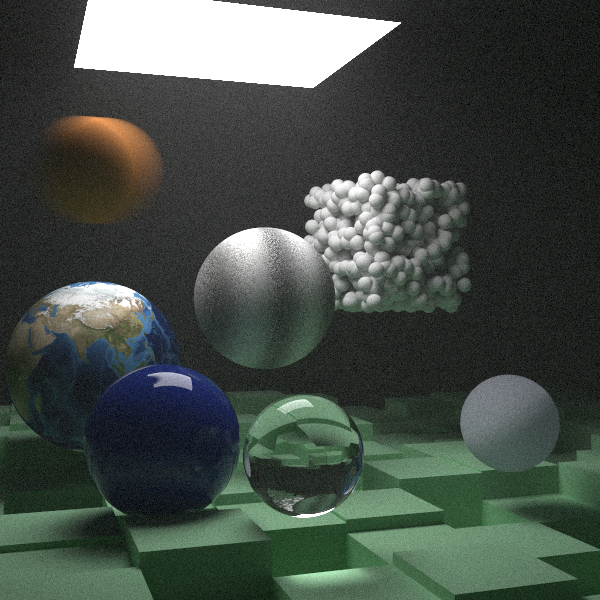
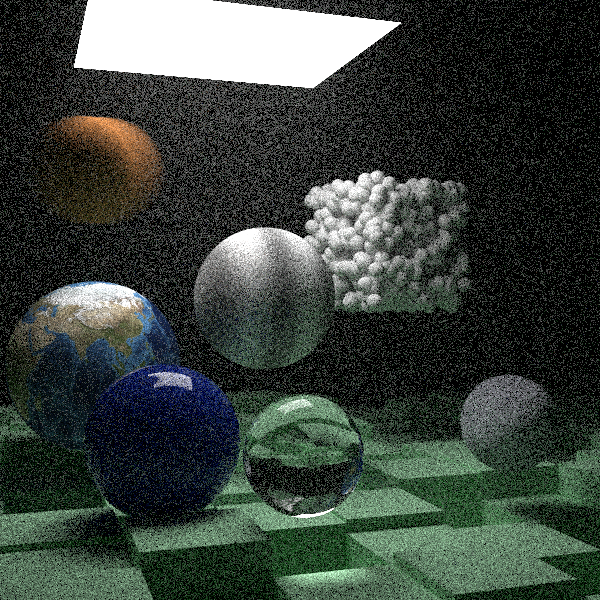
re-render final image

diff --git a/README.md b/README.md
@@ -102,7 +102,7 @@ sips -s format png image.ppm --out image.png
 | Checkered Spheres  | <img src="./images/checkered_spheres.png" width="200" />  | Perlin Noise Texture          | <img src="./images/perlin_spheres.png" width="200" />  |
 | Earth Texture      | <img src="./images/earth.png" width="200" />              | XY Rectangle &amp; Lights     | <img src="./images/simple_light.png" width="200" />    |
 | Empty Cornell Box  | <img src="./images/empty_cornell_box.png" width="200" />  | Standard Cornell Box          | <img src="./images/cornell_box.png" width="200" />     |
-| Smoke and Fog      | <img src="./images/smoke_and_fog.png" width="200" />      | Final Image (2k samples/pixel | <img src="./images/final_next_week.png" width="200" /> |
+| Smoke and Fog      | <img src="./images/smoke_and_fog.png" width="200" />      | Final Image (1k samples/pixel | <img src="./images/final_next_week.png" width="200" /> |
 
 #### Timing Benchmarks
 
